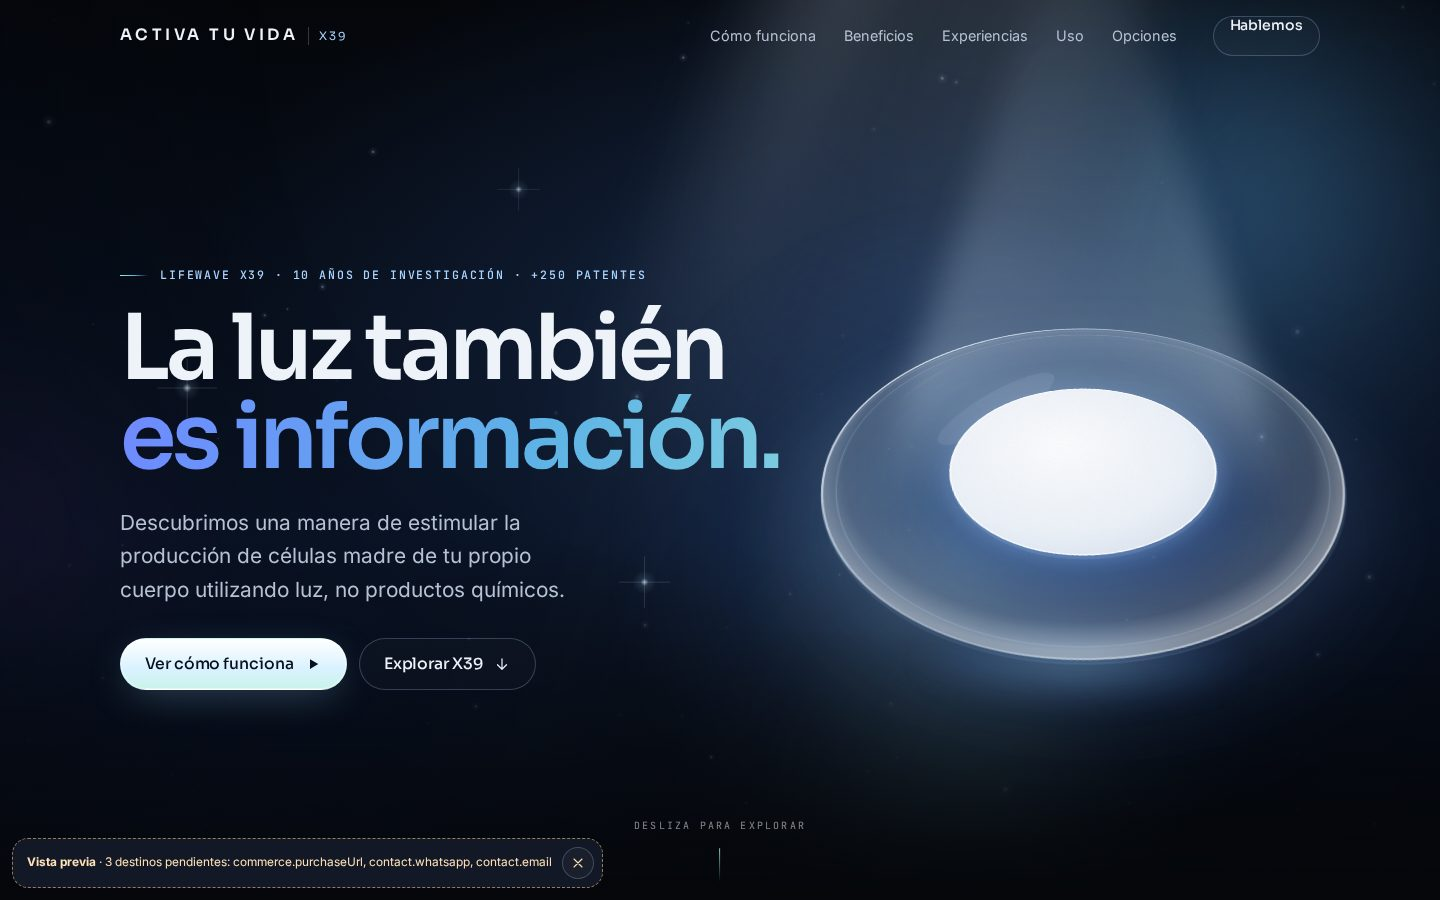
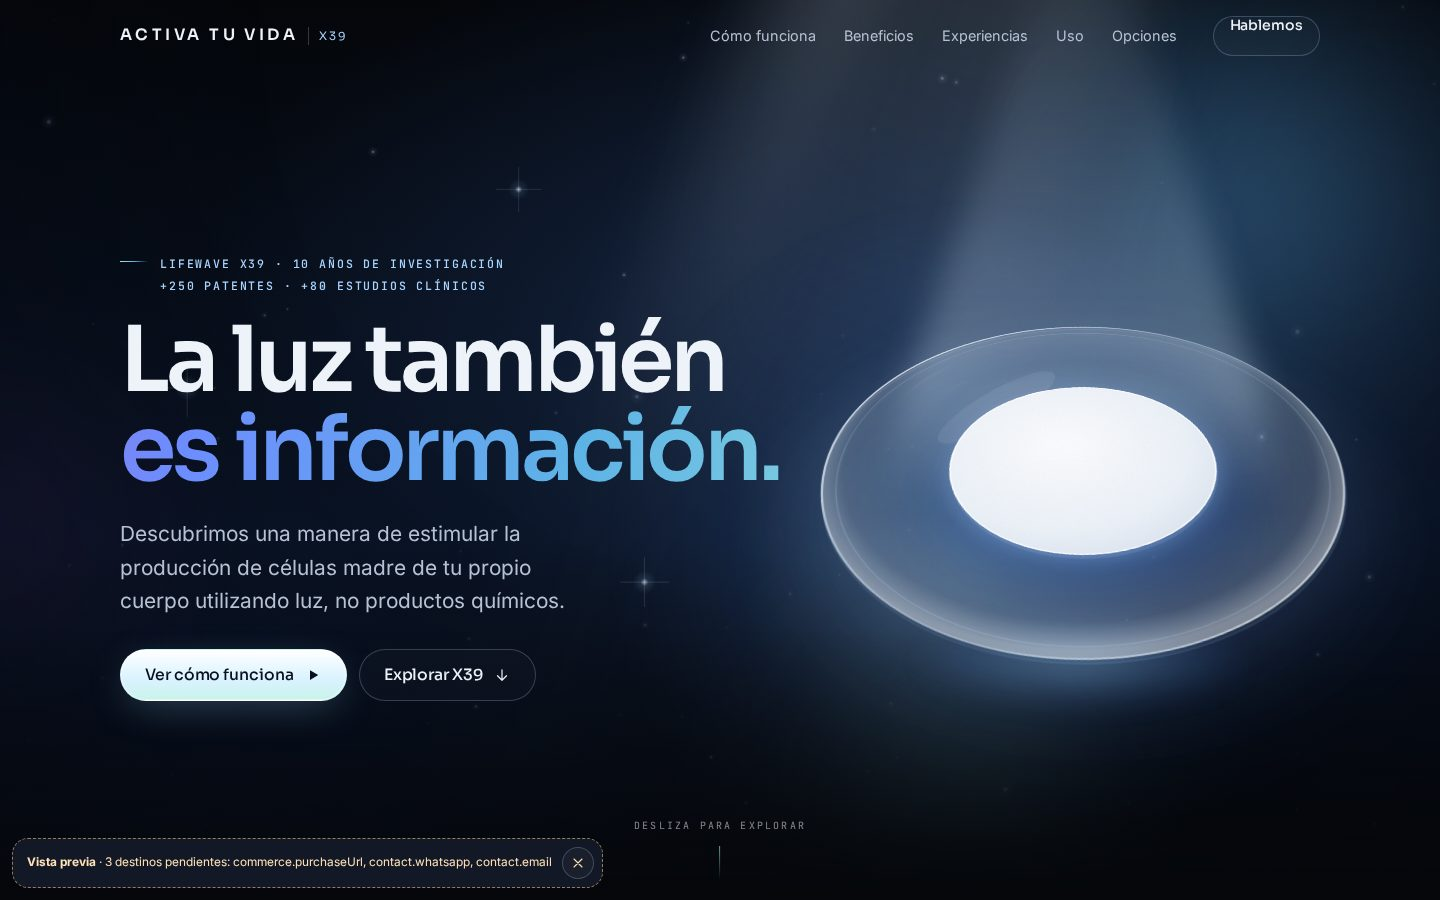
copy(x39): «+80 estudios clínicos» en el eyebrow del hero, en dos líneas fijas
Claude-Session: https://claude.ai/code/session_01SGHyY9TKSi31c9NfQ2AcQT

Changed region(s): [[0.0625, 0.28, 0.5625, 0.7778], [0.375, 0.28, 0.4375, 0.3111], [0.6562, 0.3733, 0.6875, 0.4044]]

diff --git a/sites/activatuvida/src/styles/main.css b/sites/activatuvida/src/styles/main.css
@@ -967,3 +967,12 @@ details[open] > summary .acc__icon::after { transform: rotate(0); }
 .award__title { font-size: clamp(1.5rem, 3.4vw, 2.2rem); letter-spacing: -0.03em; line-height: 1.12; background: var(--spectrum); -webkit-background-clip: text; background-clip: text; color: transparent; }
 .award__sub { color: var(--text-2); margin: 0.5rem 0 0; }
 @media (prefers-reduced-motion: reduce) { .trophy, .tr-shine, .tr-sparks circle { animation: none !important; } }
+
+/* Eyebrow del hero en dos líneas exactas */
+.kicker--stack { align-items: flex-start; }
+.kicker--stack::before { margin-top: 0.55em; }
+.kicker__lines { display: grid; gap: 0.35em; }
+.kicker__lines span { white-space: nowrap; }
+@media (max-width: 899px) {
+  .hero .kicker--stack { font-size: clamp(0.6rem, 2.95vw, 0.72rem); letter-spacing: 0.1em; }
+}
